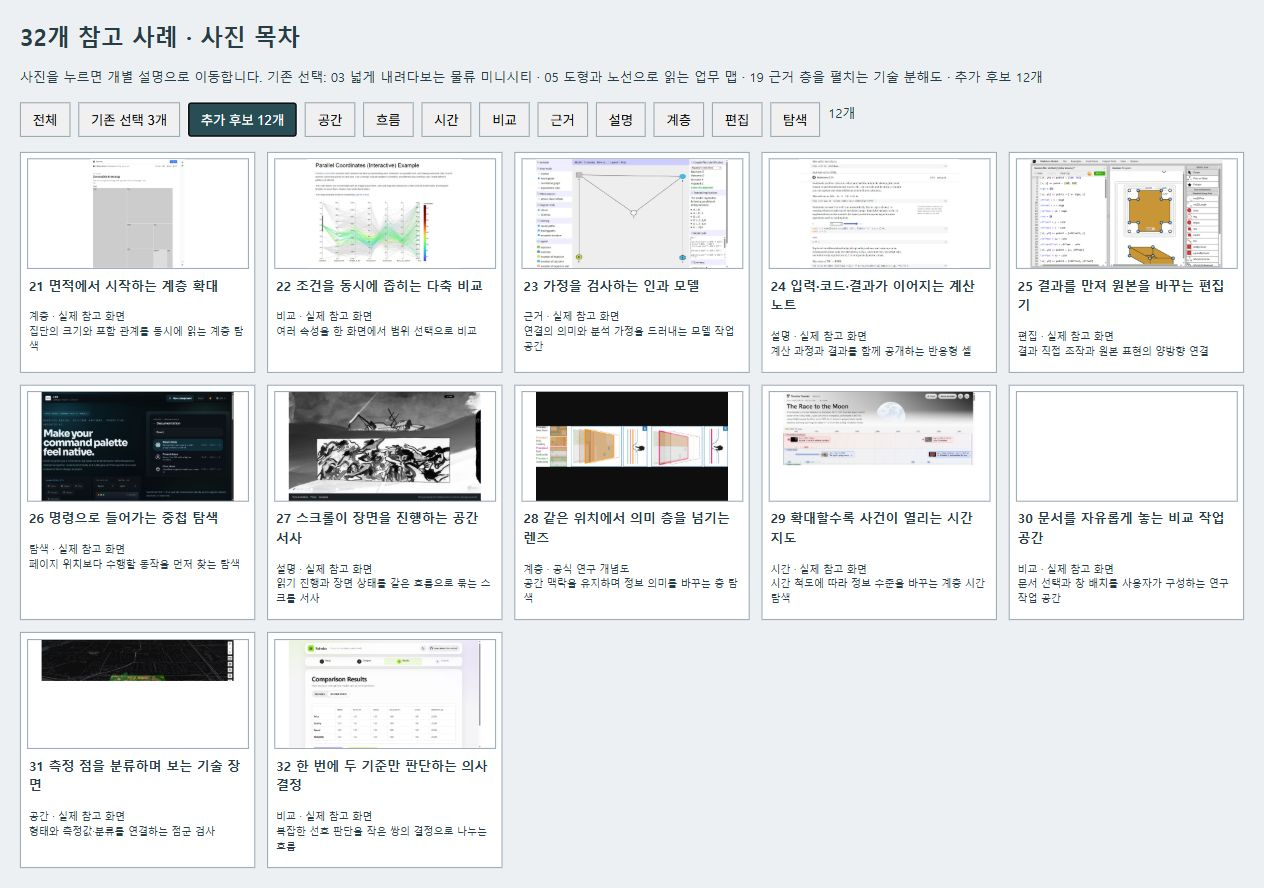
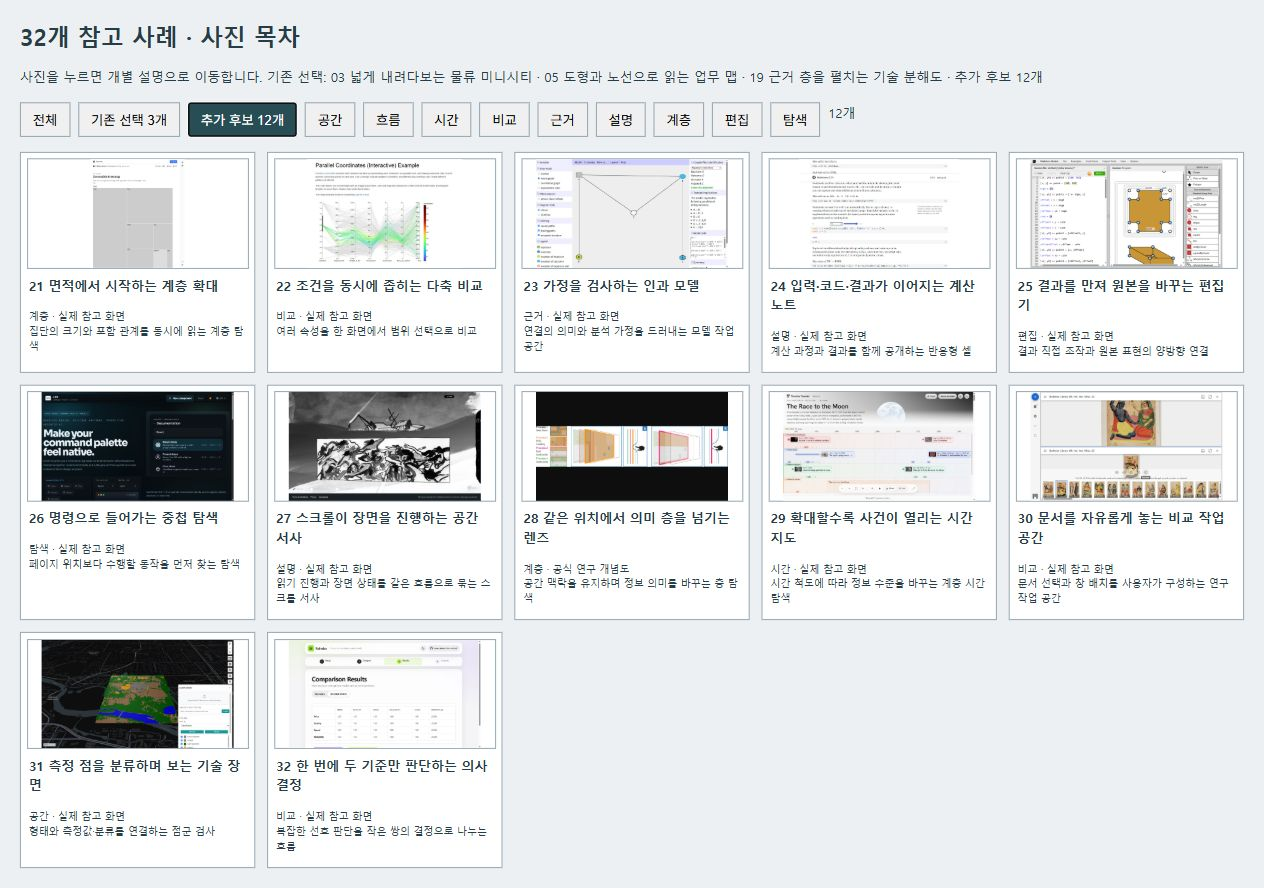
Recapture expansion preview after all images finish loading

Changed region(s): [[0.8022, 0.4257, 0.9873, 0.5777], [0.0309, 0.7601, 0.1851, 0.8514], [0.6171, 0.5169, 0.7405, 0.5777]]

diff --git a/docs/RESEARCH_EXPANSION_20261009.md b/docs/RESEARCH_EXPANSION_20261009.md
@@ -65,3 +65,5 @@
 별도 테스트 복사본에서 메타데이터가 없을 때 경로 확인 안내가 나오는 것을 확인했습니다. 일반 화면과390px시험 폭에서 가로 넘침·상세창·28번 개념도 표기를 육안 검수했고 시험 폭은 복원했습니다.12개 시안을 한 화면으로 확인하고 SVG의 글자가 바깥 경계를 벗어나지 않는 것도 점검했습니다. 참고 이미지와 시안은 개별 테두리·캡션으로 구분됩니다.
 
 생성기는 입력 데이터에서 문서와 갤러리를 다시 만들며, 오프라인 설명집은 외부 fetch없이 로컬 이미지로 구성됩니다. 원작의 성능·모든 조작·모바일 호환성을 검사한 결과와 이 라이브러리 검수를 혼동하지 않습니다.
+
+게시용 사진 목차는 12개 이미지의 complete/naturalWidth를 확인한 뒤 재캡처했습니다. 초기 캡처에서 30번 공백과 29·31번 일부만 표시되는 로딩 문제가 있었으며, 개별 원본 PNG는 정상이었습니다. 교체한 expansion-preview.png에서 21–32번 전체 사진을 육안 확인했습니다.
